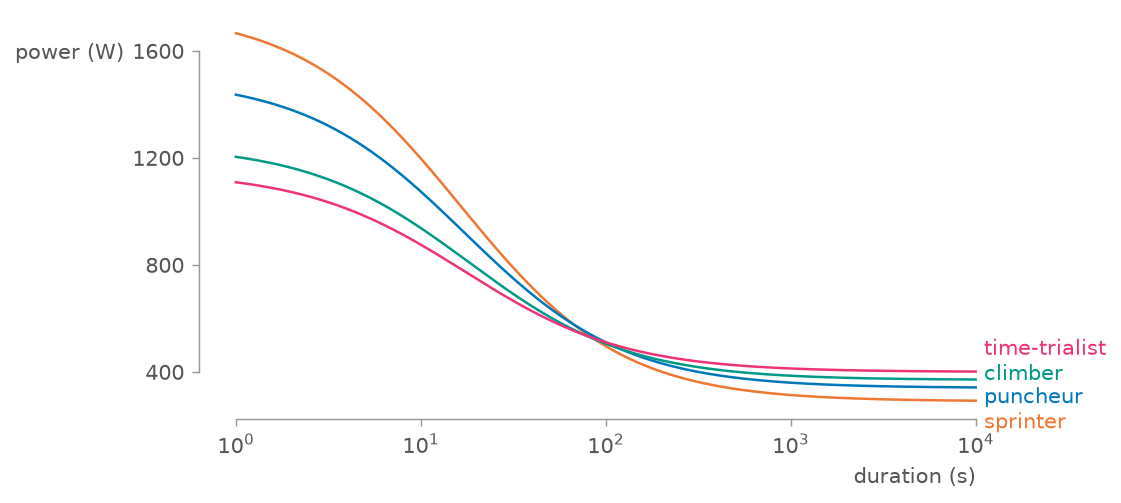
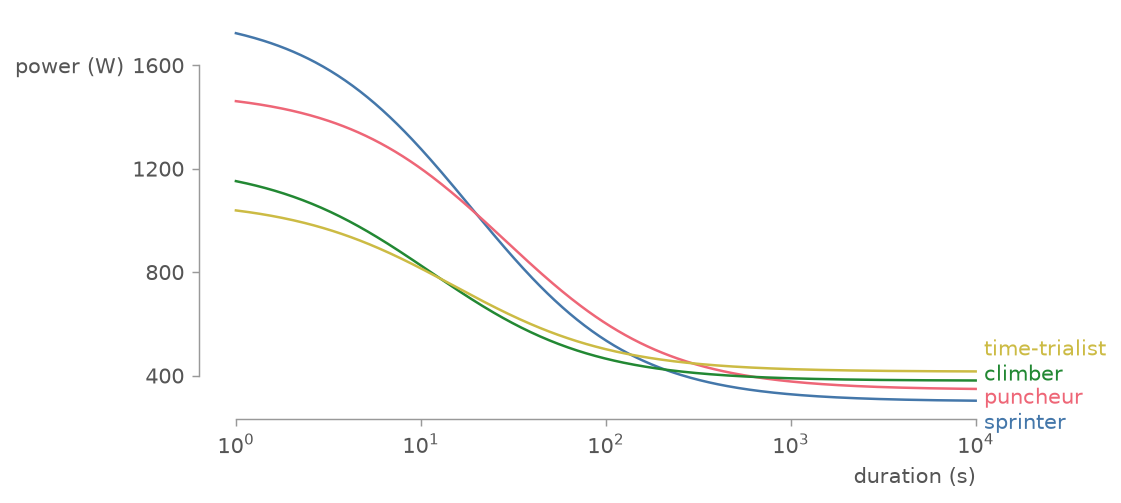
docs: spread the power-profile crossings and use a non-default palette
Retune each archetype's W' and Pmax so the transition timescales differ
and the curves cross at staggered durations instead of a single knot,
and draw them in Tol's bright scheme via qualified tol:bright.* names to
show reaching a scheme other than the vibrant default.

Claude-Session: https://claude.ai/code/session_01CDqPgu8AcjrT7siKYivTWR

diff --git a/examples/gallery.py b/examples/gallery.py
@@ -115,15 +115,18 @@ def waiting_times() -> None:
     plt.close(fig)
 
 
-# Morton's 3-parameter critical-power model with illustrative parameters,
-# anchored to trained-cyclist means (CP 301 +/- 35 W, W' 12.7 +/- 3.4 kJ;
-# Chorley et al. 2020, doi:10.1007/s00421-020-04459-6) with the contrasts
-# between archetypes exaggerated. The curves are the model, not riders.
+# Morton's 3-parameter critical-power model, (CP, W', Pmax), with
+# critical power near trained-cyclist means (CP 301 +/- 35 W; Chorley et
+# al. 2020, doi:10.1007/s00421-020-04459-6) and W' and Pmax stylised to
+# fan the archetypes apart: the explosive types carry a large anaerobic
+# reserve, the aerobic diesels a small one, so the curves cross at
+# staggered durations instead of a single knot. The curves are the
+# model, not riders.
 ARCHETYPES = {
-    "sprinter": (290, 24000, 1750, "tol:orange"),
-    "puncheur": (340, 20000, 1500, "tol:blue"),
-    "climber": (370, 16000, 1250, "tol:teal"),
-    "time-trialist": (400, 13000, 1150, "tol:magenta"),
+    "sprinter": (300, 28000, 1800, "tol:bright.blue"),
+    "puncheur": (345, 33000, 1500, "tol:bright.red"),
+    "climber": (380, 9500, 1220, "tol:bright.green"),
+    "time-trialist": (415, 10000, 1080, "tol:bright.yellow"),
 }
 
 

diff --git a/README.md b/README.md
@@ -110,9 +110,9 @@ Old Faithful's waiting times as a histogram under `frame="data"`, both spines fl
 
 ![Histogram of waiting times between Old Faithful eruptions, two-peaked, with spines running exactly along the bars' span](https://raw.githubusercontent.com/jpweytjens/vanzelfsprekend/main/docs/waiting_times.png)
 
-The critical-power model for four rider archetypes on a log time axis. Toward the right the curves flatten to each rider's sustainable power and crowd within a few percent of one another, which is where the end-of-line labels earn their keep; the parameters are illustrative, and the model is spelled out in the script:
+The critical-power model for four rider archetypes on a log time axis, drawn in Tol's `bright` scheme instead of the vibrant default — a qualified colour name (`color="tol:bright.blue"`) reaches any scheme. The curves cross at staggered durations, then flatten toward the right to each rider's sustainable power and crowd within a few percent, which is where the end-of-line labels earn their keep; the parameters are illustrative, and the model is spelled out in the script:
 
-![Four modelled power-duration curves on a log time axis, crossing near two minutes and labelled at their flat right ends](https://raw.githubusercontent.com/jpweytjens/vanzelfsprekend/main/docs/power_profiles.png)
+![Four modelled power-duration curves on a log time axis in Tol's bright scheme, crossing at staggered durations and labelled at their flat right ends](https://raw.githubusercontent.com/jpweytjens/vanzelfsprekend/main/docs/power_profiles.png)
 
 A resonance curve after Doumont, measured points over a calculated Lorentzian that spills past the frame. `FeatureLocator` marks the band edges and, between them, the one place the reader came to find; a feature is a callable or a fixed number, so the `16` and `19` edges sit beside the peak `x[argmax(y)]`, whose tick lands at 17.2 GHz whether or not that is the mean. `SummaryLocator` — the same idea reduced to one axis's own values — sets a minor tick at half power, the level the linewidth is read at:
 
